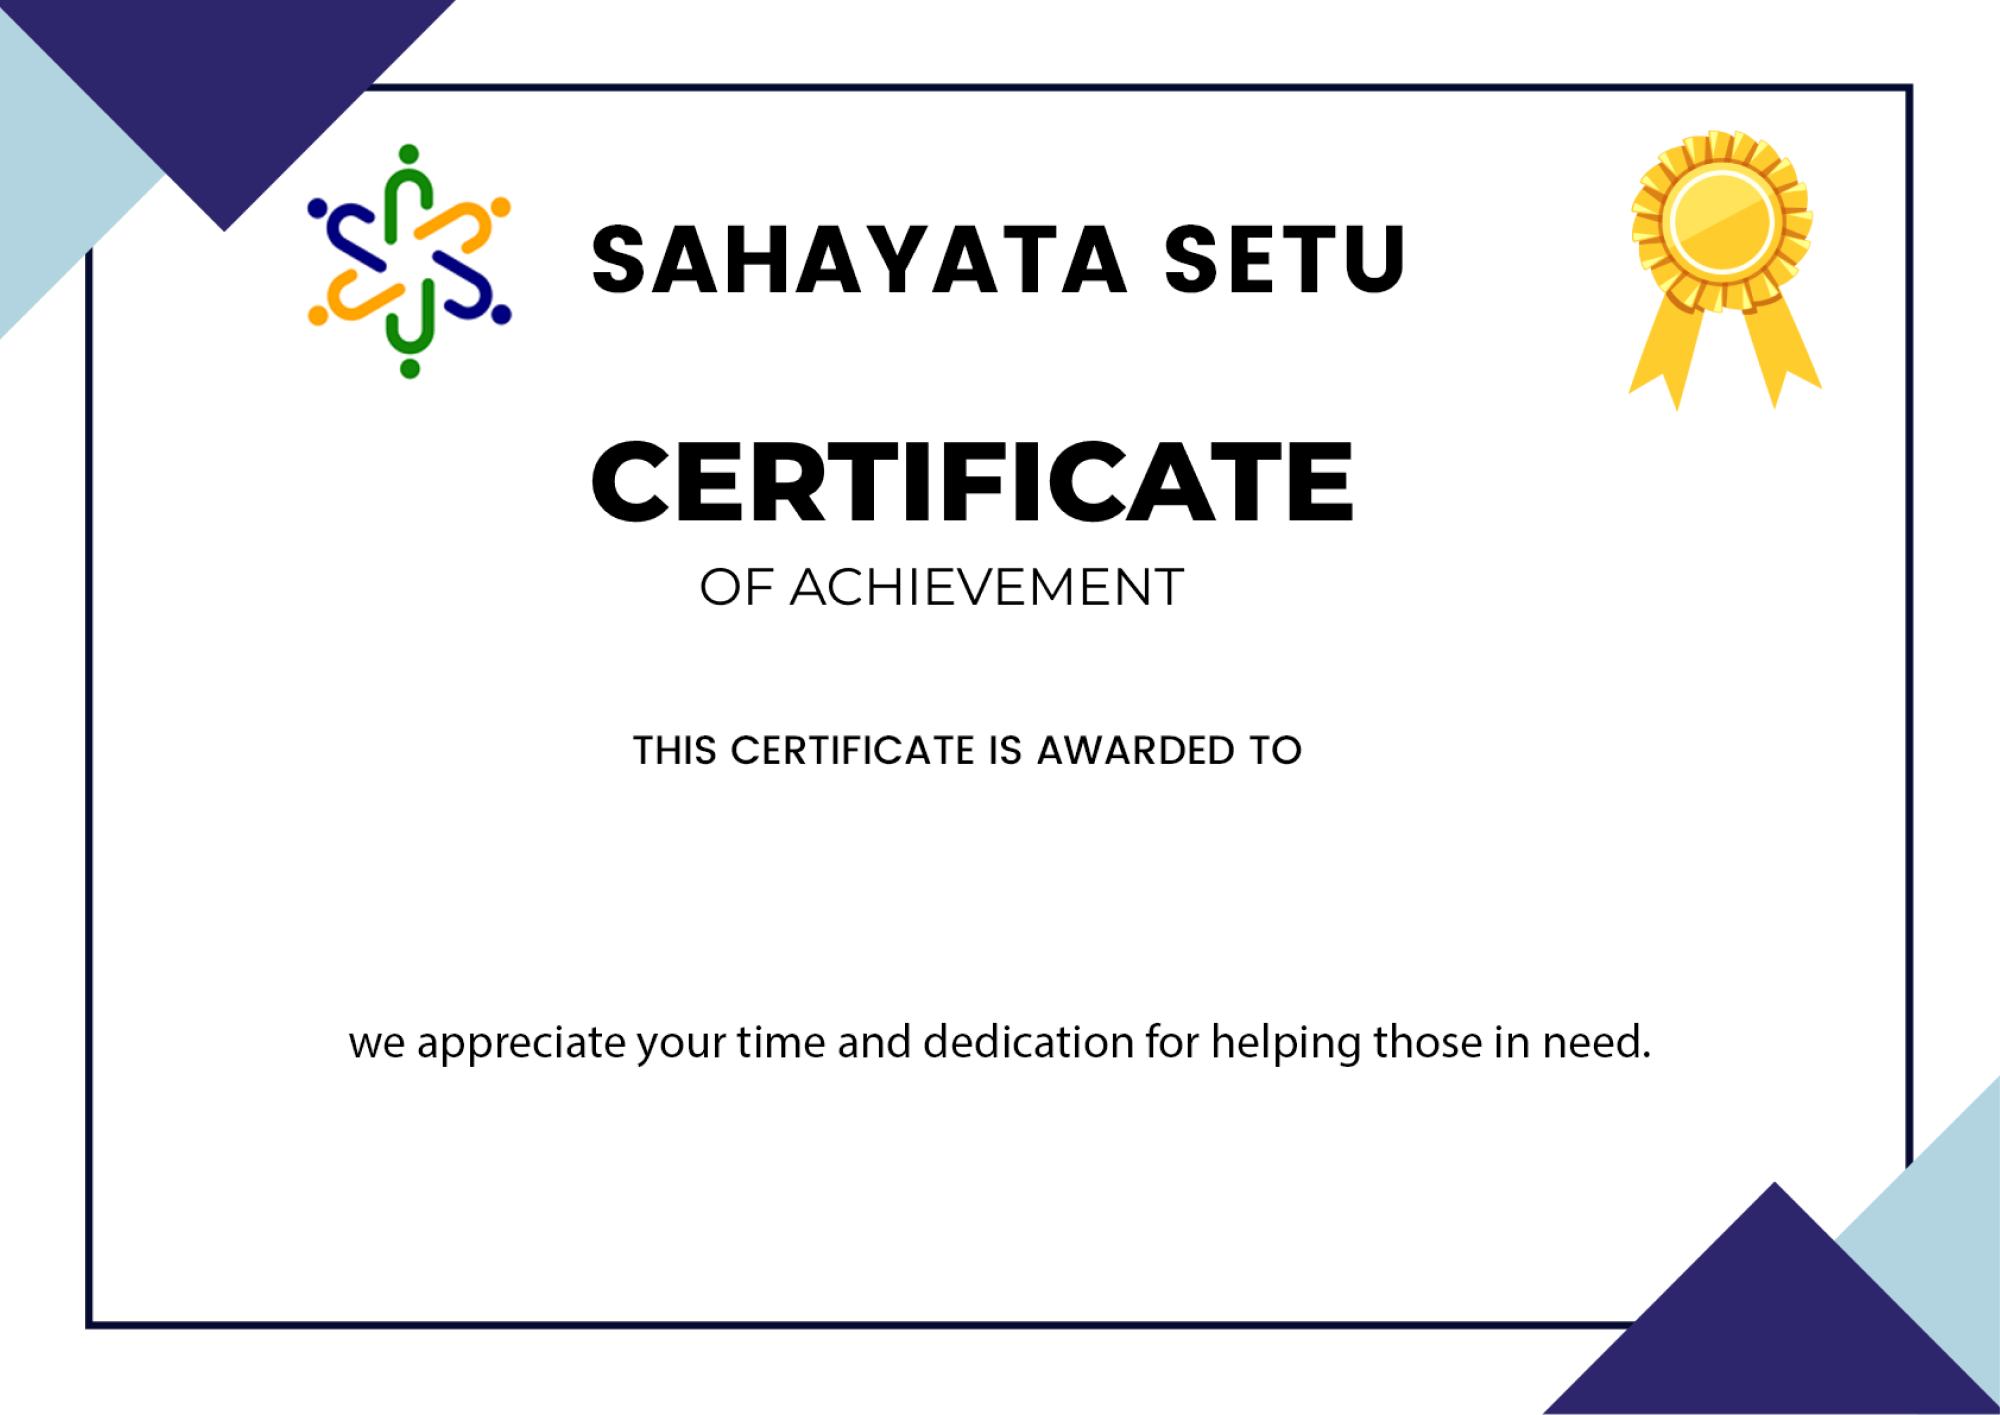
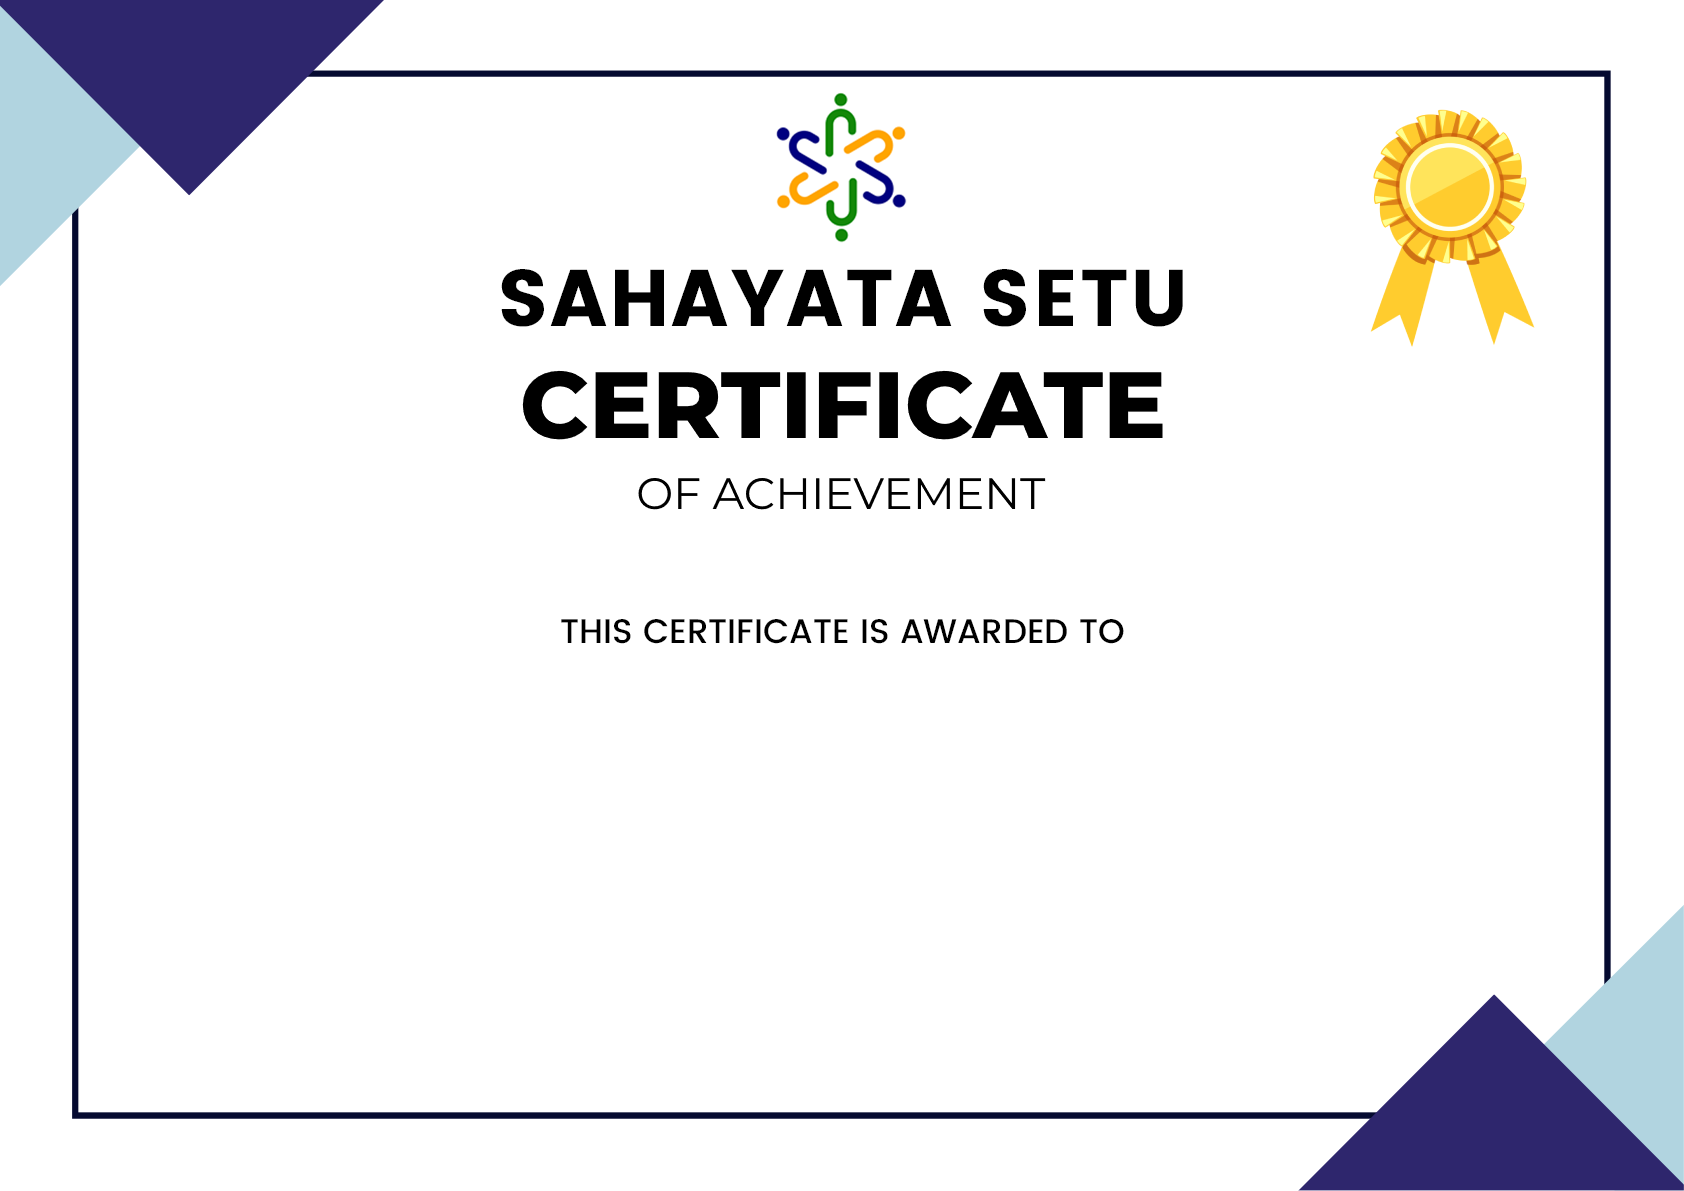
updated certificates page

diff --git a/lib/features/profile/user-profile.dart b/lib/features/profile/user-profile.dart
@@ -25,6 +25,7 @@ import 'package:flutter_riverpod/flutter_riverpod.dart';
 import 'package:flutter_screenutil/flutter_screenutil.dart';
 
 import '../../constant/common/GoogleButtomNavBar/GoogleButtomNavBar.dart';
+import '../certifications/store/certificate.store.dart';
 
 class UserProfile extends ConsumerWidget {
   const UserProfile({super.key});
@@ -33,6 +34,8 @@ class UserProfile extends ConsumerWidget {
   Widget build(BuildContext context, WidgetRef ref) {
     final userId = StorageService.getId();
     final userType = StorageService.getuserType();
+
+    final points = ref.watch(pointsProvider(userId));
     ref.watch(initUserDetailsForUpdate);
     // final userDetails = ref.watch(singleUserDataProvider(userId));
     // final userData = data['body'];
@@ -48,6 +51,14 @@ class UserProfile extends ConsumerWidget {
         content: Text('Logged Out'),
       );
       ScaffoldMessenger.of(context).showSnackBar(snackBar);
+    }
+
+    snackBar() {
+      final snackBar = SnackBar(
+        content: Text('You need minimum of 5 donations to get certificate'),
+      );
+      ScaffoldMessenger.of(context).showSnackBar(snackBar);
+      //pop(context);
     }
 
     return App(
@@ -88,10 +99,33 @@ class UserProfile extends ConsumerWidget {
                   imageName: "profile-setting",
                 ),
               ),
+
               GestureDetector(
                 onTap: () {
-                  routeTo("/certificatePreview", context);
+                  points.when(
+                      data: (data) {
+                        return data['body'] < 25
+                            ? snackBar()
+                            : routeTo("/certificatePreview", context);
+                      },
+                      error: (e, xt) => Text("ërror"),
+                      loading: () => Container());
                 },
+
+                // Container(child: ,)
+                // points == null
+                //     ? () {
+                //         const snackBar = SnackBar(
+                //           content: Text(
+                //               'You need to have atleast five points to get certificate'),
+                //         );
+                //         ScaffoldMessenger.of(context).showSnackBar(snackBar);
+                //         pop(context);
+                //       }
+                //     : () {
+                //         routeTo("/certificatePreview", context);
+                //       }
+                // ,
                 child: UserProfileOptions(
                   text: translation(context).certificates,
                   imageName: "certificate",

diff --git a/lib/features/certifications/widgets/certificate.dart b/lib/features/certifications/widgets/certificate.dart
@@ -11,41 +11,9 @@ class Certificate {
   Uint8List? logobytes;
   PdfImage? _logoImage;
 
-  // fetch() async {
-  //   ByteData _bytes = await rootBundle.load('assets/images/certificateBack.png');
-  //   logobytes = _bytes.buffer.asUint8List();
-  //   // setState(() {
-  //   //   try {
-  //   _logoImage = PdfImage.file(
-  //     pdf.document,
-  //     bytes: logobytes!,
-  //   );
-  // }
-  //       );
-  //     } catch (e) {
-  //       print("catch--  $e");
-  //       logobytes = null;
-  //       _logoImage = null;
-  //     }
-  //   });
-  // }
-
-  // Printing.layoutPdf(onLayout: (PdfPageFormat format) async {
-  //   return pdf.save();
-  // });
-  //}
-
-  Future<Uint8List> makePdf(String name) async {
+  Future<Uint8List> makePdf(String name, int points) async {
     List<String> splitted = [];
 
-    // final imageLogo = MemoryImage(
-    //     (await rootBundle.load('assets/images/veg.png')).buffer.asUint8List());
-    // ByteData _bytes =
-    //     await rootBundle.load('assets/images/certificateBack.png');
-    // logobytes = _bytes.buffer.asUint8List();
-    // // setState(() {
-    // //   try {
-    // _logoImage = PdfImage.file(pdf.document, bytes: logobytes!);
     final image = pw.MemoryImage(
         (await rootBundle.load('assets/images/cert.png')).buffer.asUint8List());
     pdf.addPage(pw.Page(
@@ -72,6 +40,15 @@ class Certificate {
                   child: pw.Text(name.toUpperCase(),
                       style: pw.TextStyle(
                         fontSize: 40,
+                      ))),
+              pw.Positioned(
+                  left: 80,
+                  bottom: 50,
+                  //margin: pw.EdgeInsets.all(70),
+                  child: pw.Text(
+                      "On Successful Completion of ${(points / 5).toInt()} Donations!!",
+                      style: pw.TextStyle(
+                        fontSize: 30,
                       )))
             ])));
     return pdf.save();

diff --git a/lib/features/certifications/widgets/certificatePrint.dart b/lib/features/certifications/widgets/certificatePrint.dart
@@ -1,10 +1,14 @@
 import 'dart:developer';
 
+import 'package:donationapp/constant/common/Text/custom-text.dart';
 import 'package:donationapp/features/certifications/widgets/certificate.dart';
 import 'package:donationapp/store/account-setting/account.setting.store.dart';
 import 'package:flutter/material.dart';
 import 'package:flutter_riverpod/flutter_riverpod.dart';
 import 'package:printing/printing.dart';
+
+import '../../../utils/store-service/store.service.dart';
+import '../store/certificate.store.dart';
 
 class CertificatePrint extends ConsumerWidget {
   static String routeName = '/pdfPreview';
@@ -14,15 +18,25 @@ class CertificatePrint extends ConsumerWidget {
   @override
   Widget build(BuildContext context, WidgetRef ref) {
     final user = ref.watch(userDetailsProvider);
+    final userId = StorageService.getId();
+    final points = ref.watch(pointsProvider(userId));
     log("${user}");
+    log("${points}");
+
     return Scaffold(
-      appBar: AppBar(
-        title: const Text('Report'),
-      ),
-      body: PdfPreview(
-        build: (context) => Certificate()
-            .makePdf("${user['firstName'] + " " + user['lastName']}"),
-      ),
-    );
+        appBar: AppBar(
+          title: const Text('Report'),
+        ),
+        body: points.when(
+          data: (data) {
+            return PdfPreview(
+              build: (context) => Certificate().makePdf(
+                  "${user['firstName'] + " " + user['lastName']}",
+                  data['body']),
+            );
+          },
+          error: (e, st) => CustomText(text: "Ërror"),
+          loading: () => Container(),
+        ));
   }
 }

diff --git a/lib/features/certifications/services/certeficate.services.dart b/lib/features/certifications/services/certeficate.services.dart
@@ -6,15 +6,15 @@ import 'package:donationapp/utils/base-client/base_client.dart';
 import 'package:donationapp/utils/store-service/store.service.dart';
 import 'package:flutter_riverpod/flutter_riverpod.dart';
 
-class ProfileServiceClass {
+class pointServiceClass {
   final _client = ApiHelper.instance;
 
   //Get all donations or requests
-  Future<Map<String, dynamic>> myDonations(userId) async {
+  Future<Map<String, dynamic>> points(userId) async {
     try {
       final token = StorageService.getToken();
       final response = await _client.get(
-        "/user/donation/user/$userId",
+        "/user/point/$userId",
         options: Options(
           headers: {"Authorization": "Bearer ${token}"},
         ),
@@ -28,5 +28,5 @@ class ProfileServiceClass {
   }
 }
 
-final profilePageService =
-    Provider<ProfileServiceClass>((ref) => ProfileServiceClass());
+final pointPageService =
+    Provider<pointServiceClass>((ref) => pointServiceClass());

diff --git a/lib/features/certifications/store/certificate.store.dart b/lib/features/certifications/store/certificate.store.dart
@@ -1,0 +1,14 @@
+//get single donations
+import 'package:donationapp/features/certifications/services/certeficate.services.dart';
+import 'package:donationapp/features/profile/services/profile-page.services.dart';
+import 'package:flutter/material.dart';
+import 'package:flutter_riverpod/flutter_riverpod.dart';
+
+final pointsProvider = FutureProvider.family<Map<String, dynamic>, String>(
+  (ref, data) {
+    return ref.watch(pointPageService).points(data);
+  },
+);
+
+final pointsControllerProvider =
+    StateProvider.autoDispose((ref) => TextEditingController());
